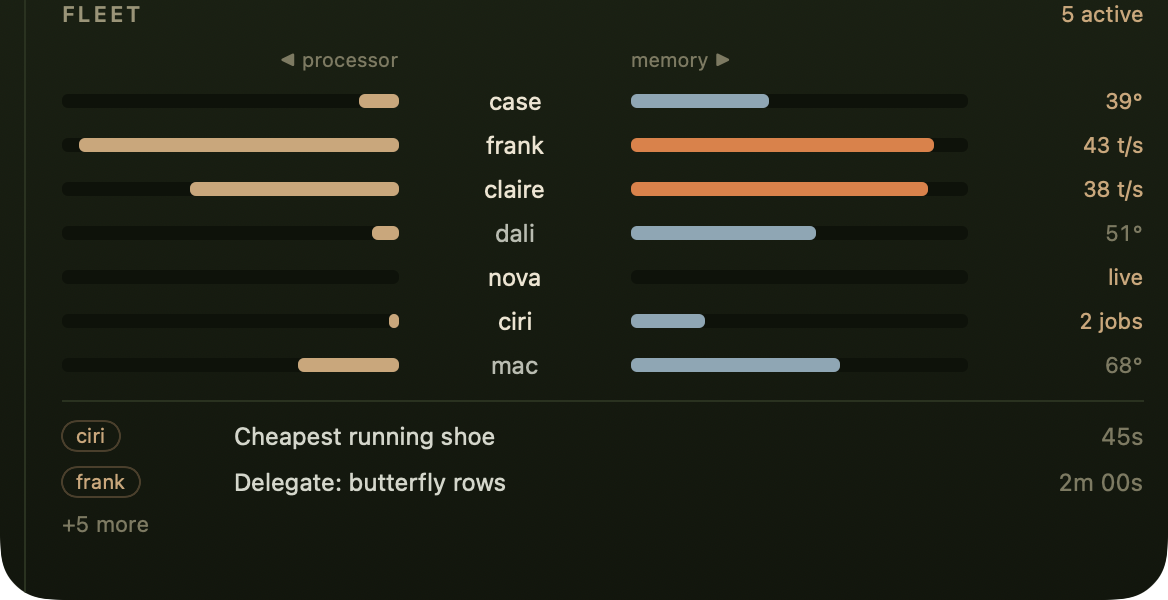
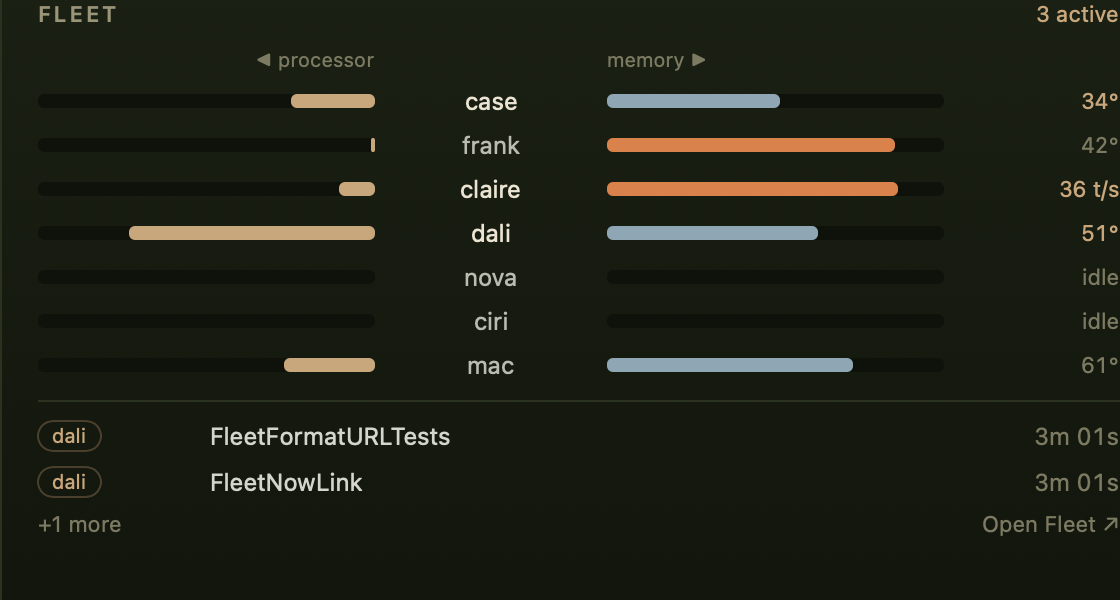
Fleet panel: link to the Fleet web page
The opened panel's "Now" block gets an "Open Fleet ↗" link in its bottom
line: empty bottom-right space when no jobs are hidden, right of "+N more"
when there are. It opens the trimmed Defaults[.fleetBaseURL] in the default
browser via NSWorkspace; dim theme colour, accent on hover, pointing hand.

The URL normalisation (trim, drop trailing slashes, nil when empty) moves
from FleetStore into FleetFormat.fleetBaseURL so polling and the link share
one implementation; six unit tests cover trailing slashes, whitespace and
blank input.

The footer line is always laid out inside the block's fixed 70 pt frame, so
the panel height is unchanged (verified: 836 x 320 window, live app).

docs/fleet-section-preview.png refreshed from the live API payload.

diff --git a/boringNotch/components/Fleet/FleetNowView.swift b/boringNotch/components/Fleet/FleetNowView.swift
@@ -1,3 +1,4 @@
+import AppKit
 import Defaults
 import SwiftUI
 
@@ -5,6 +6,7 @@ struct FleetNowView: View {
     let jobs: [FleetJob]
 
     @Default(.fleetSkin) private var fleetSkin
+    @State private var linkHovered = false
     private var theme: FleetTheme { FleetTheme(skin: fleetSkin) }
 
     // MARK: - Body
@@ -20,13 +22,8 @@ struct FleetNowView: View {
                 ForEach(Array(jobs.prefix(2))) { job in
                     jobRow(job)
                 }
-                if jobs.count > 2 {
-                    Text("+\(jobs.count - 2) more")
-                        .font(.system(size: 11))
-                        .foregroundColor(theme.dim)
-                        .frame(height: 14)
-                }
             }
+            footer
         }
         .frame(maxWidth: .infinity, alignment: .leading)
         .padding(.top, 9)
@@ -36,6 +33,46 @@ struct FleetNowView: View {
                 .frame(height: 1)
         }
         .frame(height: 70, alignment: .topLeading)
+    }
+
+    // MARK: - Footer
+
+    /// Bottom line of the Now block: "+N more" on the left when jobs are hidden,
+    /// the "Open Fleet ↗" link on the right. The line is always laid out, so the
+    /// fixed 70 pt block height never changes.
+    private var footer: some View {
+        HStack(spacing: 8) {
+            if jobs.count > 2 {
+                Text("+\(jobs.count - 2) more")
+                    .font(.system(size: 11))
+                    .foregroundColor(theme.dim)
+                    .lineLimit(1)
+            }
+            Spacer(minLength: 0)
+            Button(action: openFleet) {
+                Text("Open Fleet ↗")
+                    .font(.system(size: 11))
+                    .foregroundColor(linkHovered ? theme.accent : theme.dim)
+                    .lineLimit(1)
+                    .contentShape(Rectangle())
+            }
+            .buttonStyle(.plain)
+            .onHover { hovering in
+                linkHovered = hovering
+                if hovering {
+                    NSCursor.pointingHand.push()
+                } else {
+                    NSCursor.pop()
+                }
+            }
+            .help("Open the Fleet web page")
+        }
+        .frame(height: 14)
+    }
+
+    private func openFleet() {
+        guard let url = FleetFormat.fleetBaseURL(Defaults[.fleetBaseURL]) else { return }
+        NSWorkspace.shared.open(url)
     }
 
     // MARK: - Job Row

diff --git a/boringNotchTests/FleetFormatTests.swift b/boringNotchTests/FleetFormatTests.swift
@@ -144,4 +144,37 @@ final class FleetFormatTests: XCTestCase {
     func testRAMWarningIgnoredWhenUnavailable() {
         XCTAssertFalse(FleetFormat.isRAMWarning(unavailable(99)))
     }
+    // MARK: - fleetBaseURL
+
+    func testFleetBaseURLStripsOneTrailingSlash() {
+        XCTAssertEqual(FleetFormat.fleetBaseURL("https://case.tail2f9fd5.ts.net/")?.absoluteString,
+                       "https://case.tail2f9fd5.ts.net")
+    }
+
+    func testFleetBaseURLStripsAllTrailingSlashes() {
+        XCTAssertEqual(FleetFormat.fleetBaseURL("https://example.com///")?.absoluteString,
+                       "https://example.com")
+    }
+
+    func testFleetBaseURLTrimsSurroundingWhitespace() {
+        XCTAssertEqual(FleetFormat.fleetBaseURL("  https://case.tail2f9fd5.ts.net/ \n")?.absoluteString,
+                       "https://case.tail2f9fd5.ts.net")
+    }
+
+    func testFleetBaseURLKeepsPlainURL() {
+        XCTAssertEqual(FleetFormat.fleetBaseURL("https://example.com")?.absoluteString,
+                       "https://example.com")
+    }
+
+    func testFleetBaseURLKeepsPathAndDropsOnlyTrailingSlash() {
+        XCTAssertEqual(FleetFormat.fleetBaseURL("https://example.com/fleet/")?.absoluteString,
+                       "https://example.com/fleet")
+    }
+
+    func testFleetBaseURLIsNilWhenBlank() {
+        XCTAssertNil(FleetFormat.fleetBaseURL(""))
+        XCTAssertNil(FleetFormat.fleetBaseURL("   "))
+        XCTAssertNil(FleetFormat.fleetBaseURL("\n\t"))
+        XCTAssertNil(FleetFormat.fleetBaseURL("/"))
+    }
 }

diff --git a/boringNotch/components/Fleet/FleetFormat.swift b/boringNotch/components/Fleet/FleetFormat.swift
@@ -2,7 +2,7 @@
 //  FleetFormat.swift
 //  boringNotch
 //
-//  Pure formatting functions for fleet data.
+//  Pure formatting/normalising functions for fleet data.
 //  Depends only on Foundation and the model types (Reading, FleetMachine, DeviceActivity)
 //  declared in the same target.
 //
@@ -72,5 +72,19 @@ enum FleetFormat {
     /// isAvailable && value > 80
     static func isRAMWarning(_ r: Reading) -> Bool {
         r.isAvailable && (r.value ?? 0) > 80
+    }
+
+    // MARK: - fleetBaseURL
+
+    /// Normalises `Defaults[.fleetBaseURL]` into the URL used to reach the fleet:
+    /// surrounding whitespace trimmed, every trailing slash dropped, `nil` when
+    /// nothing is left. Shared by FleetStore polling and the "Open Fleet" link.
+    static func fleetBaseURL(_ raw: String) -> URL? {
+        var base = raw.trimmingCharacters(in: .whitespacesAndNewlines)
+        while base.hasSuffix("/") {
+            base = String(base.dropLast())
+        }
+        guard !base.isEmpty else { return nil }
+        return URL(string: base)
     }
 }

diff --git a/boringNotch/components/Fleet/FleetStore.swift b/boringNotch/components/Fleet/FleetStore.swift
@@ -191,14 +191,7 @@ final class FleetStore: ObservableObject {
 
     /// Reads the base URL fresh on every fetch; an invalid/empty URL is a failure.
     private func baseURL() -> URL? {
-        var base = Defaults[.fleetBaseURL].trimmingCharacters(in: .whitespacesAndNewlines)
-        while base.hasSuffix("/") {
-            base = String(base.dropLast())
-        }
-        guard !base.isEmpty else {
-            return nil
-        }
-        return URL(string: base)
+        FleetFormat.fleetBaseURL(Defaults[.fleetBaseURL])
     }
 
     // MARK: - Reachability bookkeeping
